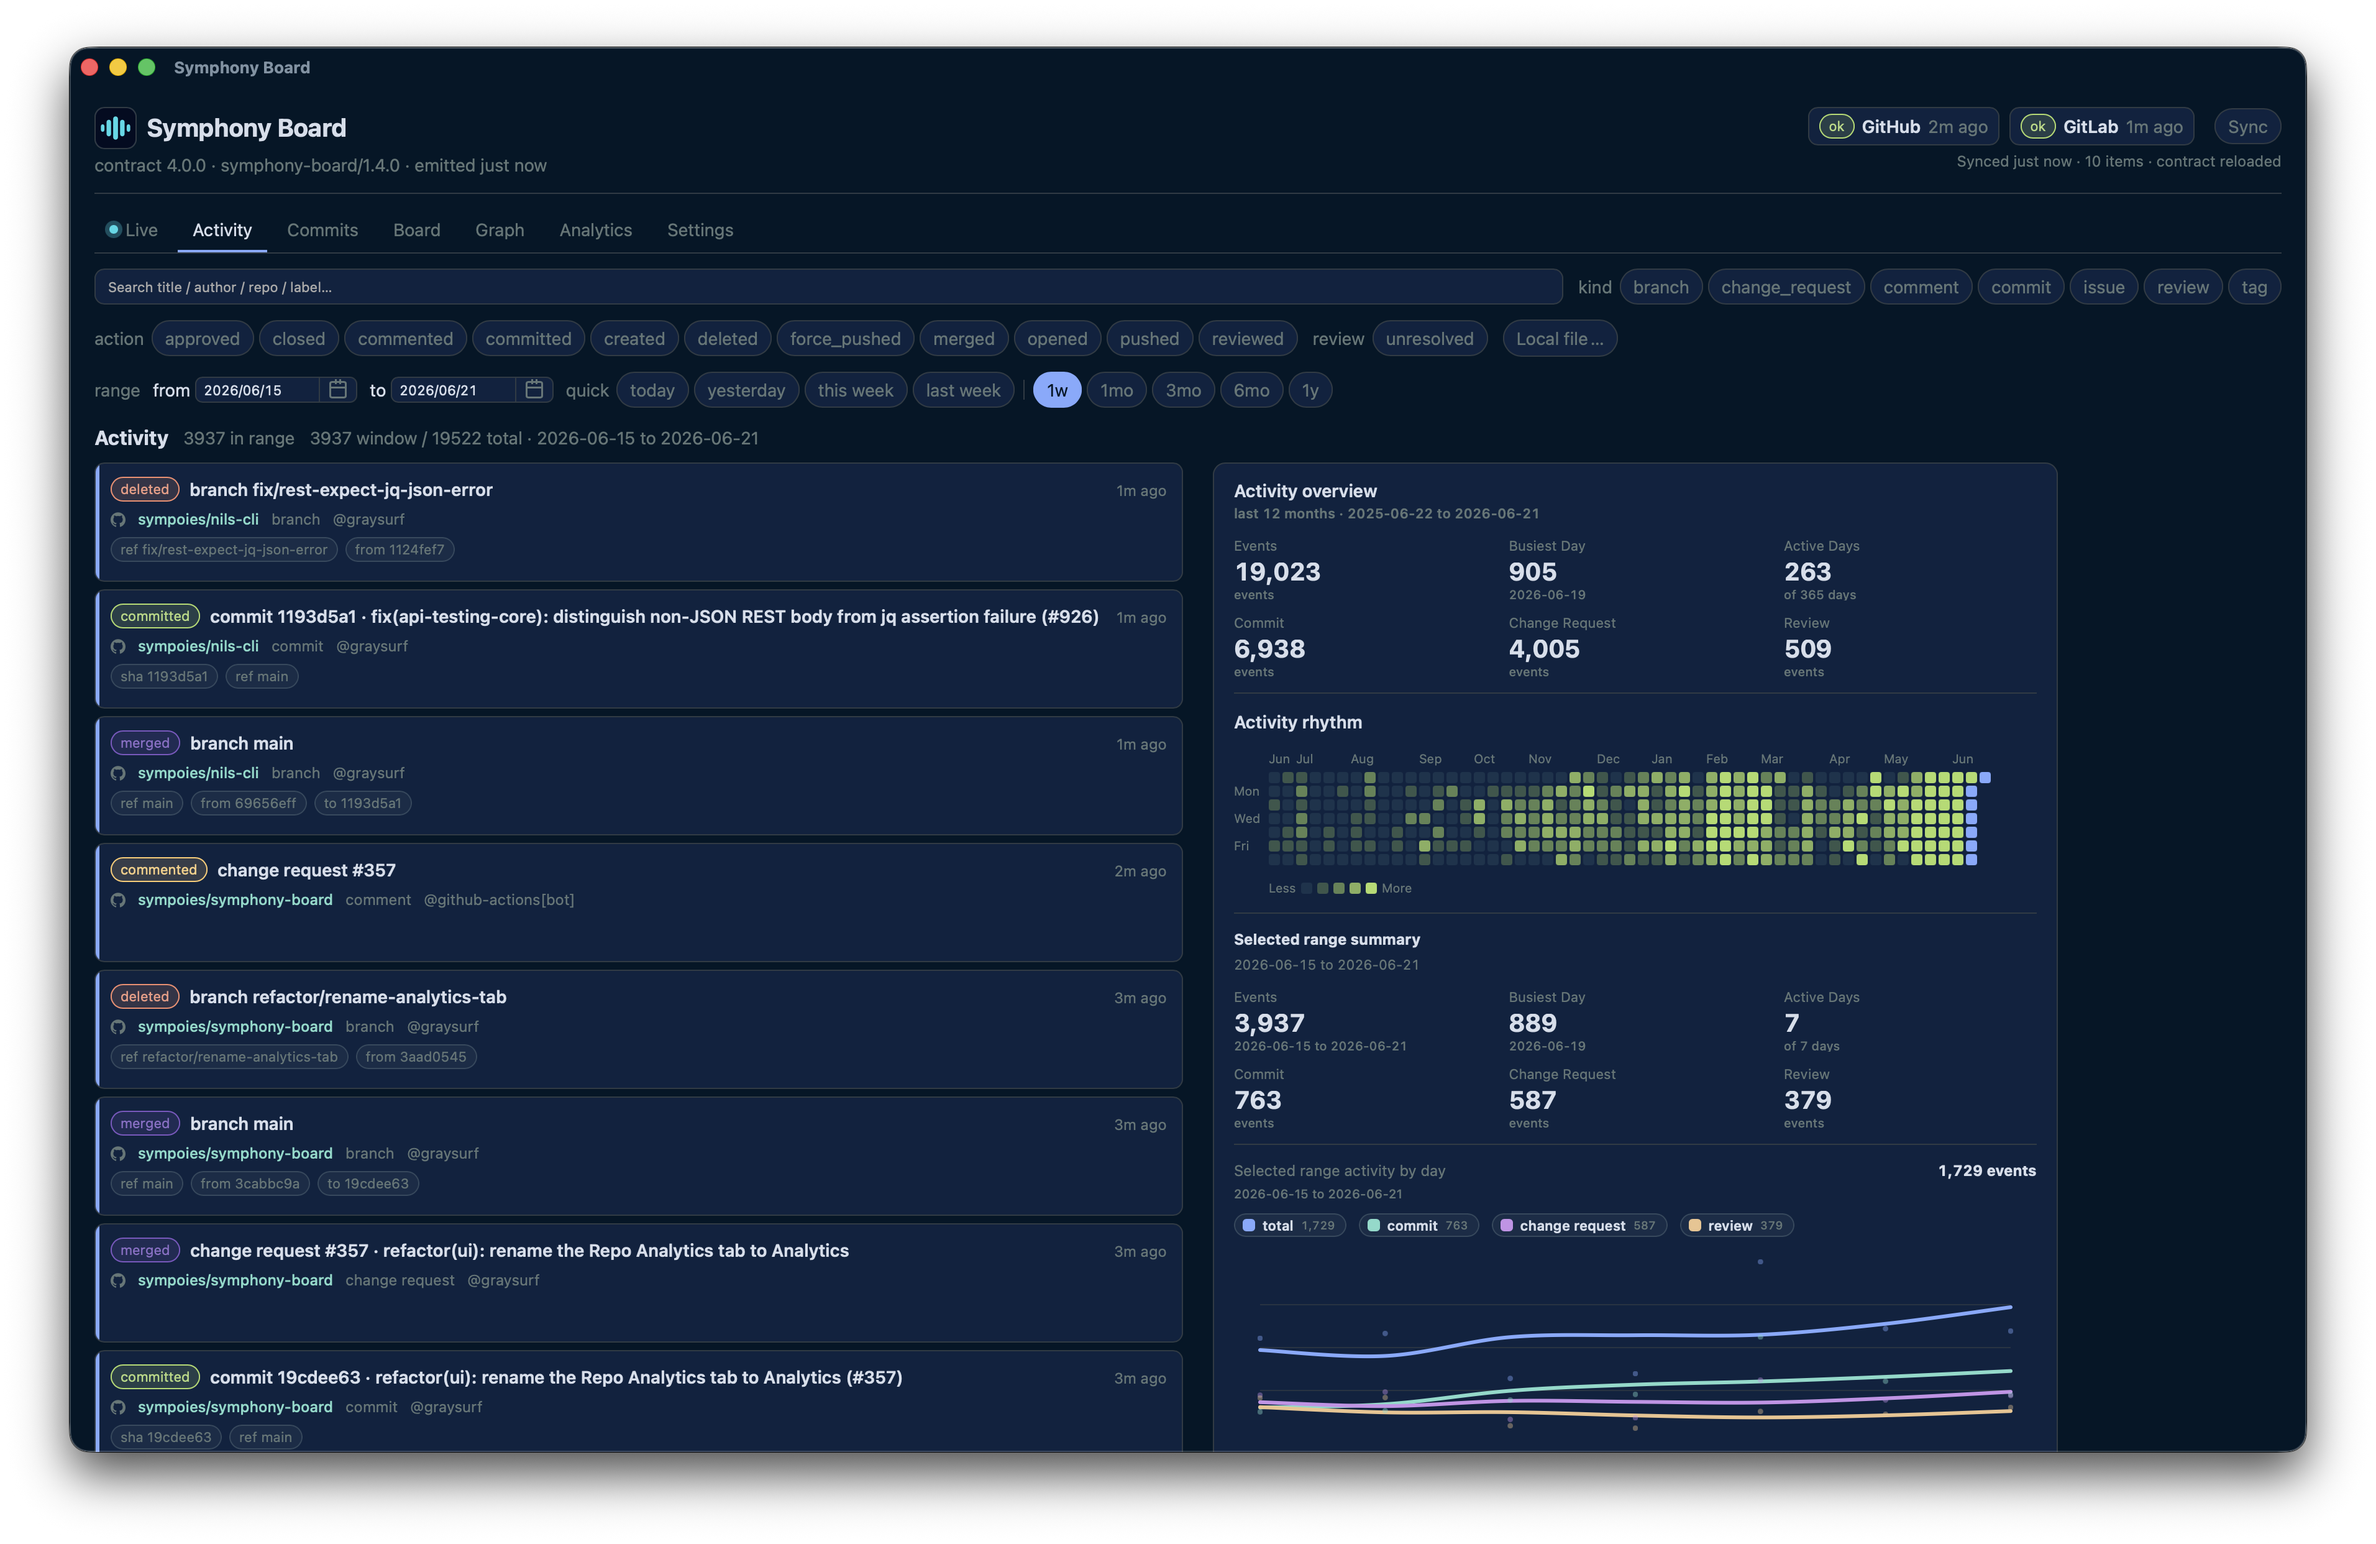
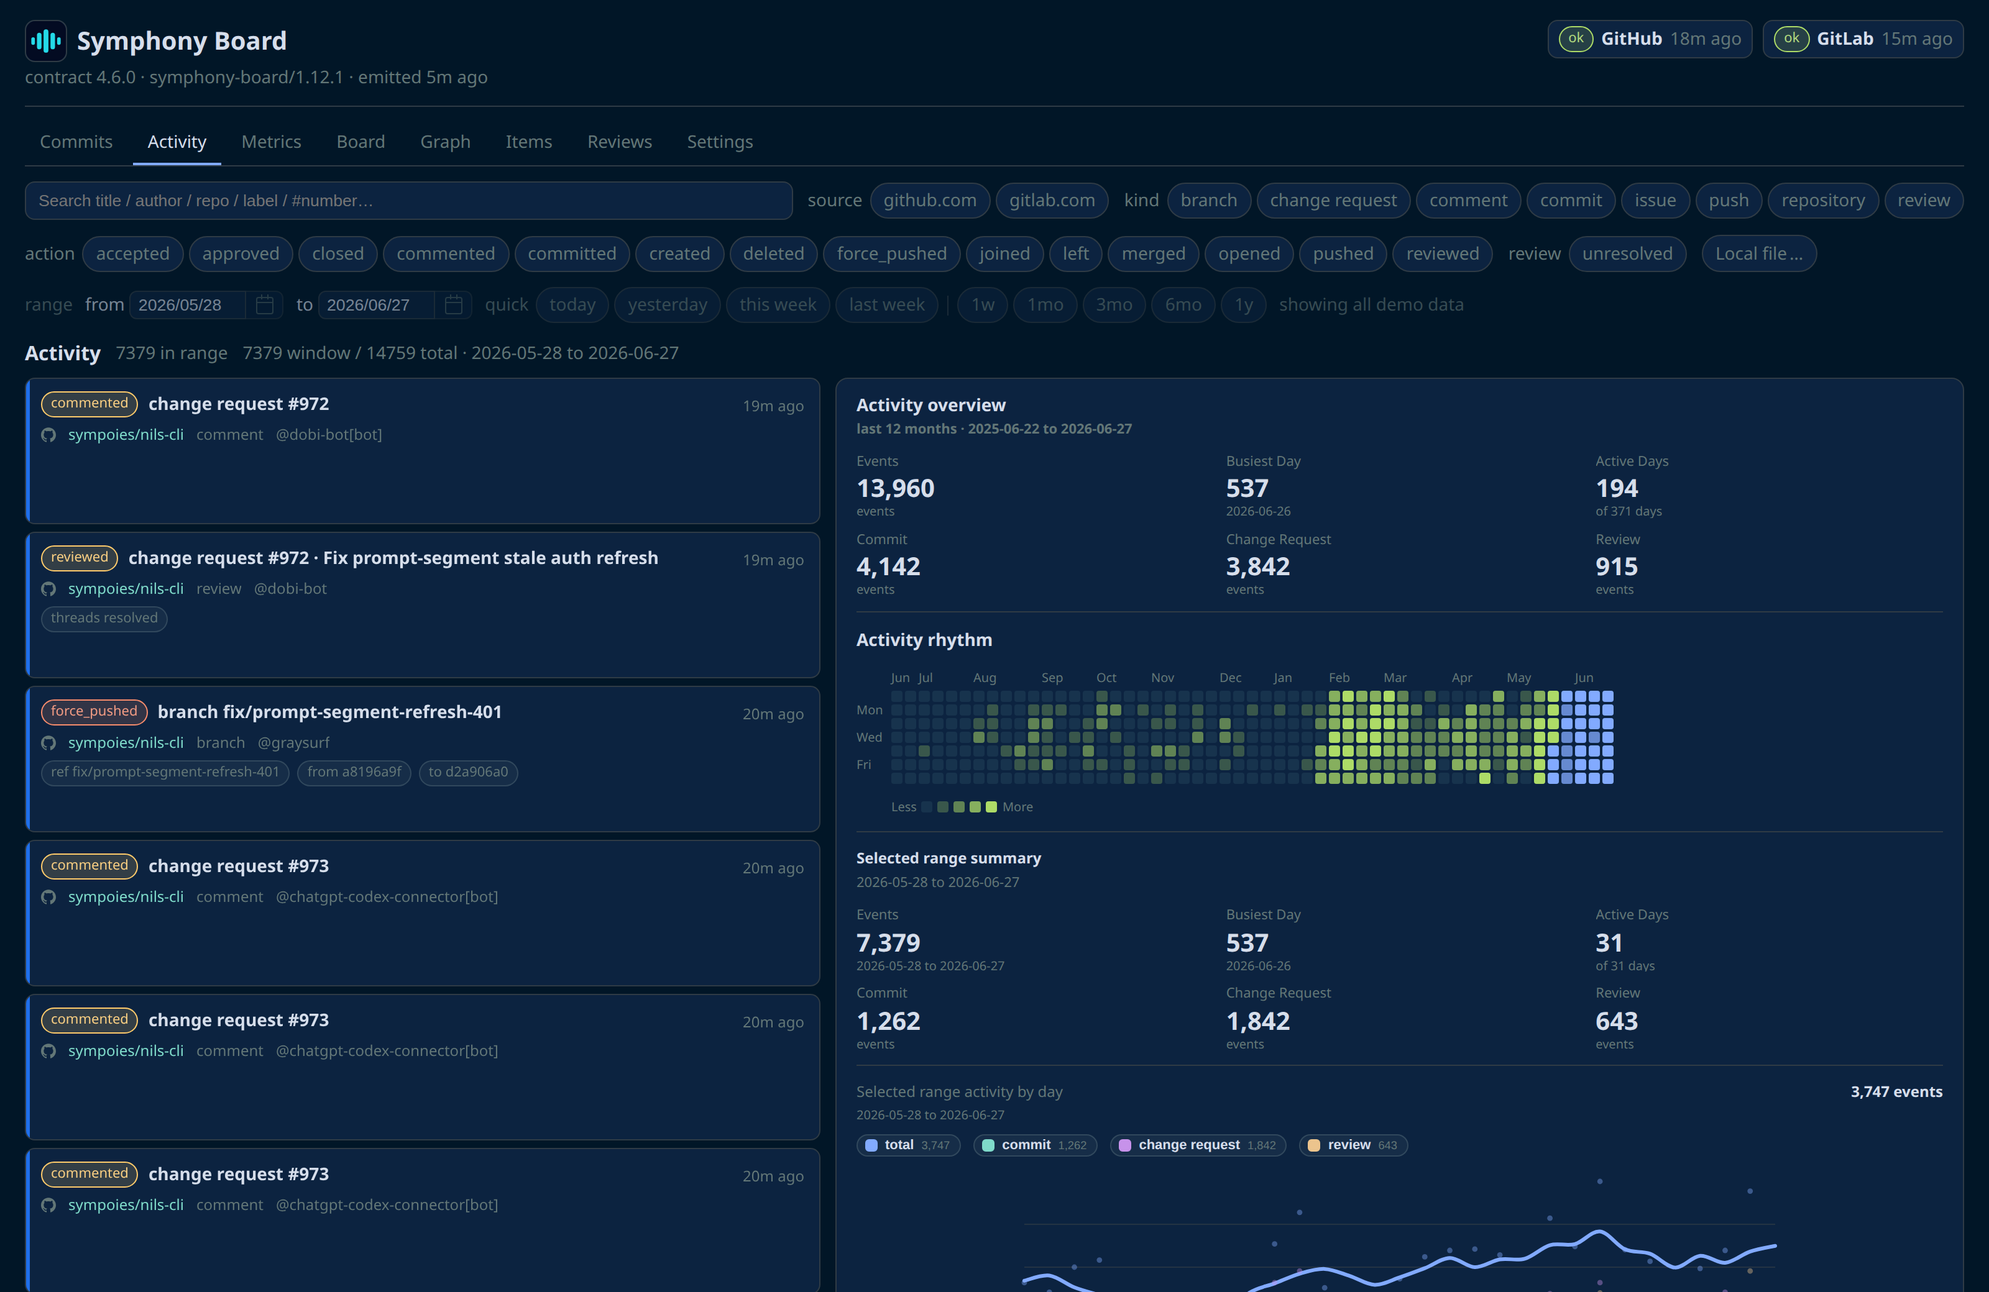
docs(readme): refresh the activity screenshot from the public demo (#720)
- Capture the current Activity page from the frozen public demo contract in headless Chrome at
  1600x1040 CSS px, 2x.
- Show the current tabs, source facets, and overview; the file shrinks from 1.5 MB to 0.5 MB.
- Align the landing page caption with the current tab names.

diff --git a/site/index.html b/site/index.html
@@ -188,7 +188,7 @@
         <a href="./demo/">
           <img src="./readme-activity.png" alt="Symphony Board activity view: work items, activity feed, and typed relationships across providers." />
         </a>
-        <figcaption>The activity view — one of the Board, Graph, Activity, Commits, Reviews, and Repo Analytics surfaces.</figcaption>
+        <figcaption>The activity view — one of the Commits, Activity, Metrics, Board, Graph, Items, and Reviews surfaces.</figcaption>
       </figure>
     </div>
 
